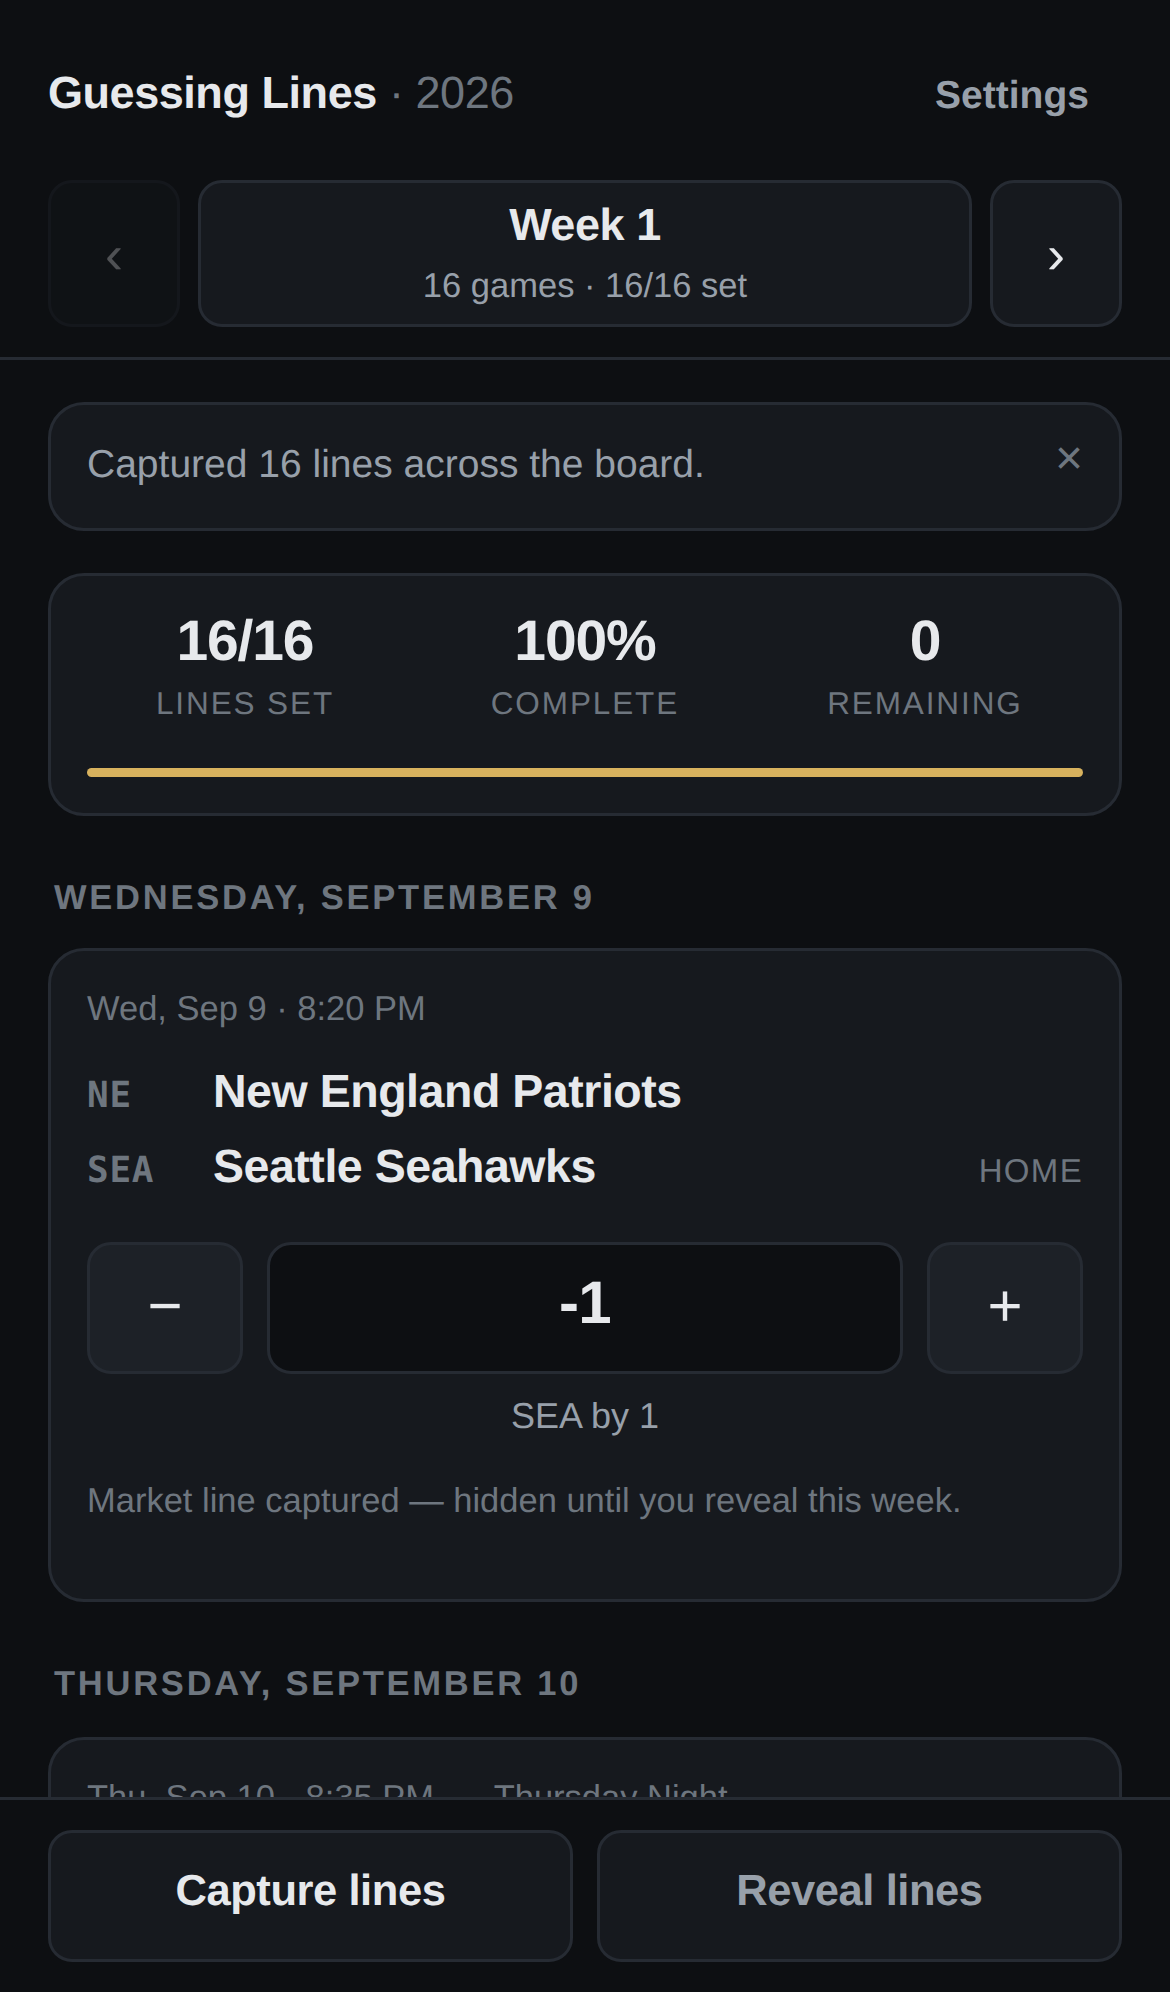
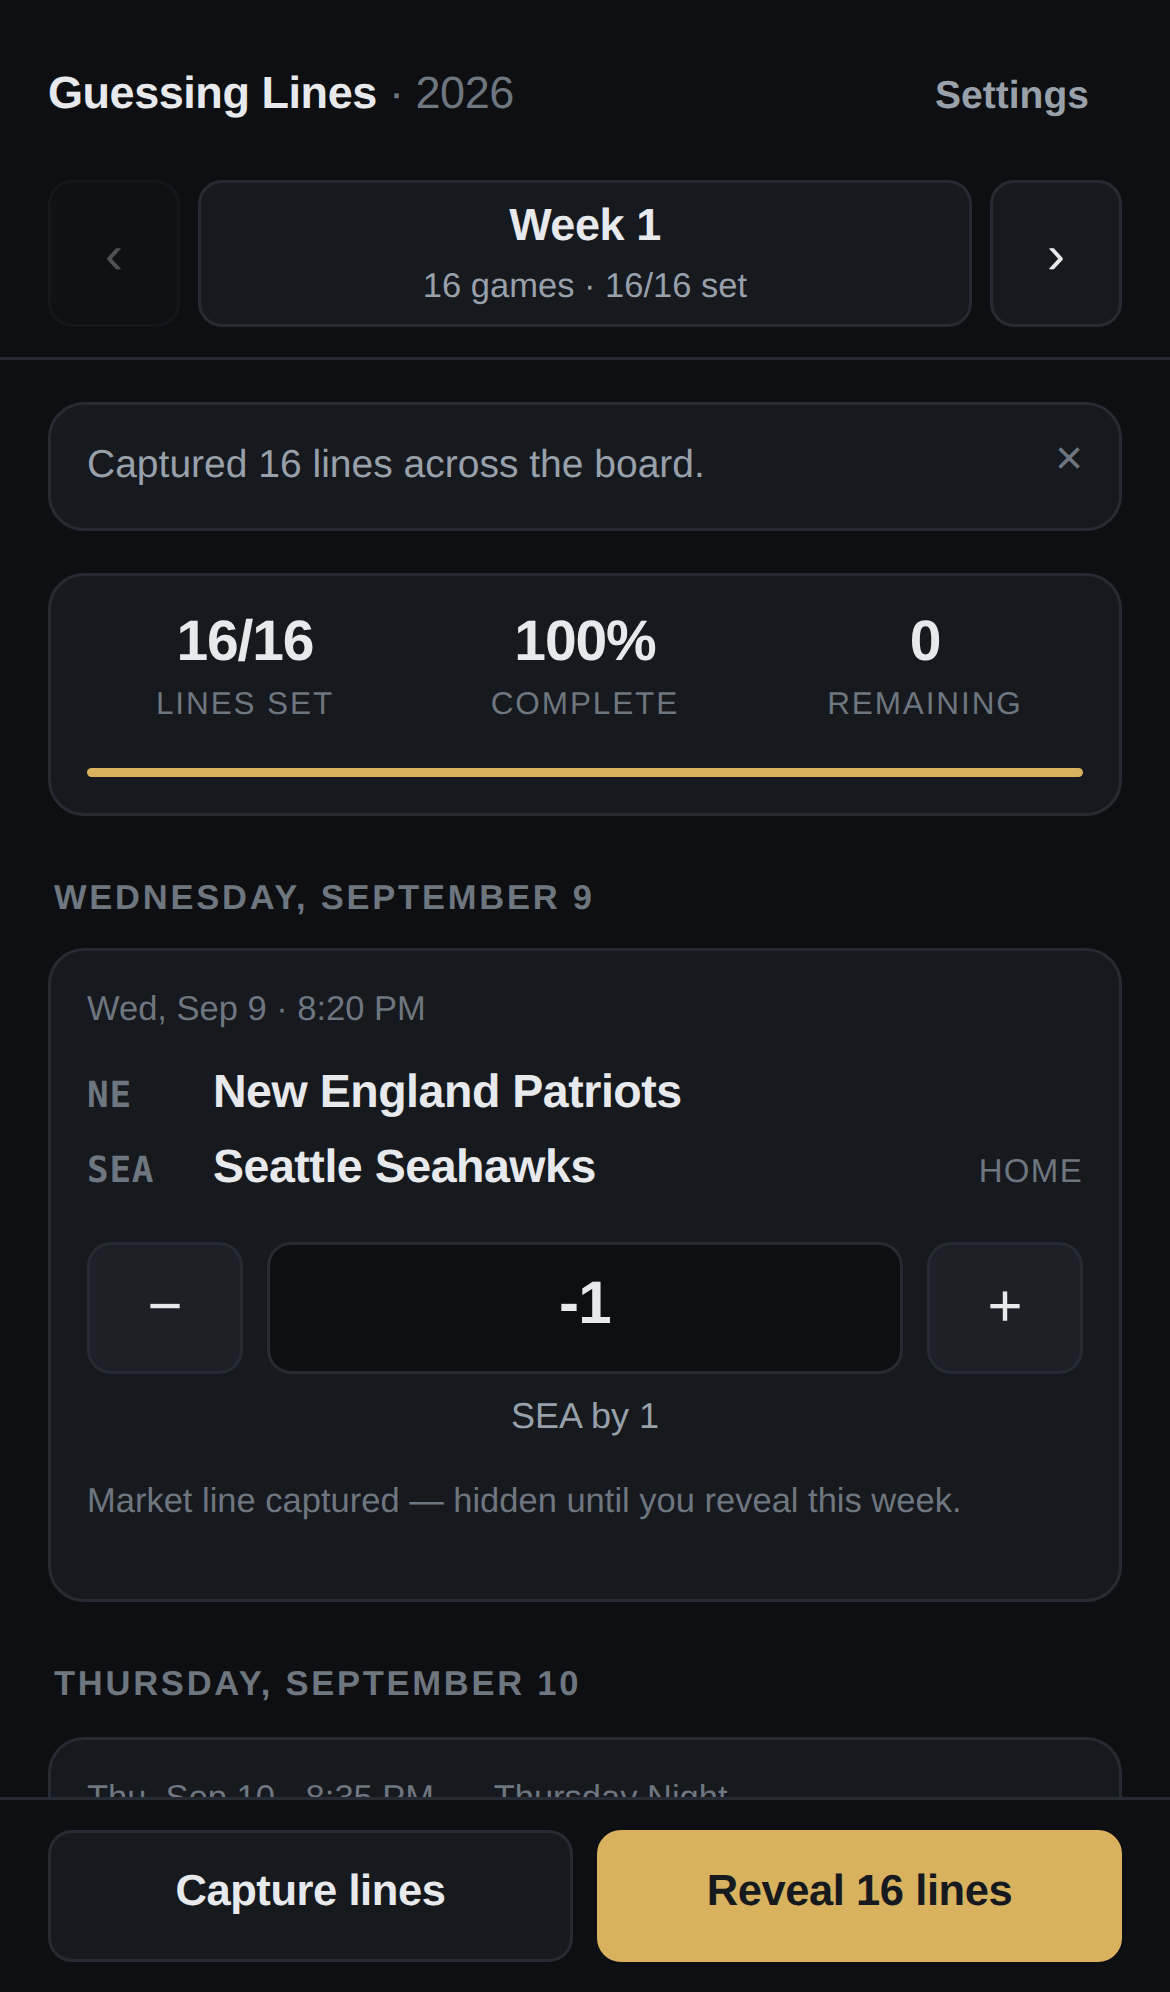
Make Reveal work whenever you ask, on the current line
Reveal did nothing when tapped. The button was disabled unless a game had
finished more than three hours ago, and week 1 has not kicked off, so
there was never anything for it to do - and a disabled button gives no
feedback at all.

The kickoff gating is gone. Reveal now pulls the current consensus from
The Odds API for any game not yet revealed, at any time. The Odds API
still drops a game from its board once it finishes, so a captured snapshot
remains the fallback for games already played, but it is the fallback
rather than the main path.

Guesses no longer lock at kickoff either; a game's input locks when you
reveal it, which is the only point at which editing it would be
meaningless.

The historical-odds path is removed entirely - a paid-plan endpoint used
to reconstruct closing lines, which is not what this is for. That takes
its settings toggle and its client function with it.

Two end-to-end checks now guard the specific failure: reveal is enabled
before any game kicks off, and what it shows comes from the live board.

Claude-Session: https://claude.ai/code/session_0193FSBnhikhSYbJYTS49Tie

Changed region(s): [[0.4923, 0.9026, 0.9846, 0.996]]

diff --git a/src/App.jsx b/src/App.jsx
@@ -8,9 +8,7 @@ import { useOnline } from './hooks/useOnline.js'
 import { usePersistentState } from './hooks/usePersistentState.js'
 import { KEYS, remove } from './lib/storage.js'
 import { consensusFromBookmakers, flipConsensus, gradeGuess, summarize } from './lib/lines.js'
-import {
-  fetchHistoricalSpreads, fetchUpcomingSpreads, OddsApiError,
-} from './lib/oddsApi.js'
+import { fetchUpcomingSpreads, OddsApiError } from './lib/oddsApi.js'
 import {
   bundledSchedule, currentWeek, dayKey, formatDayHeading, indexEventsByGame, kickedOff, likelyFinal,
   normalizeSchedule,
@@ -20,7 +18,6 @@ const DEFAULT_SETTINGS = {
   apiKey: '',
   regions: 'us',
   autoCapture: true,
-  useHistorical: false,
 }
 
 const AUTO_CAPTURE_INTERVAL = 60 * 60 * 1000 // at most one automatic capture an hour
@@ -106,9 +103,9 @@ export default function App() {
 
   const entered = games.filter((g) => Number.isFinite(guesses[g.id])).length
   const revealedGames = games.filter((g) => reveals[g.id])
-  const finalGames = games.filter((g) => phaseOf(g) === 'final')
   const upcomingGames = games.filter((g) => phaseOf(g) === 'upcoming')
-  const pendingReveal = finalGames.filter((g) => !reveals[g.id])
+  // Reveal is not gated on kickoff: any game you have not revealed is fair game.
+  const pendingReveal = games.filter((g) => !reveals[g.id])
 
   const summary = useMemo(
     () => summarize(revealedGames.map((g) => gradeGuess(guesses[g.id], reveals[g.id].line))),
@@ -230,9 +227,9 @@ export default function App() {
   }, [settings.autoCapture, settings.apiKey, upcomingGames.length, ui.lastCaptureAt, captureLines])
 
   /**
-   * Reveal: captured snapshots first (free and genuinely pre-game), then the
-   * historical endpoint when the plan allows it, then the live board as a
-   * last resort for anything still listed.
+   * Reveal pulls the current consensus straight from The Odds API, whenever you
+   * ask for it. A game the board no longer lists - because it has finished -
+   * falls back to the snapshot captured before kickoff, if there is one.
    */
   const revealWeek = useCallback(async () => {
     if (!pendingReveal.length) return
@@ -242,49 +239,13 @@ export default function App() {
     setBusy('reveal')
     setStatus(null)
 
+    const pending = pendingReveal
     const resolved = {}
     const notes = []
-    for (const game of pendingReveal) {
-      const snap = snapshots[game.id]
-      if (snap) resolved[game.id] = { ...snap, source: 'captured', revealedAt: new Date().toISOString() }
-    }
-    let missing = pendingReveal.filter((g) => !resolved[g.id])
     const key = settings.apiKey.trim()
 
     try {
-      if (missing.length && key && settings.useHistorical) {
-        // One snapshot per distinct kickoff time covers every game in that slot.
-        const slots = [...new Set(missing.map((g) => g.kickoffMs))].sort((a, b) => a - b)
-        for (const slotMs of slots) {
-          if (controller.signal.aborted) return
-          try {
-            const at = new Date(slotMs - 60000).toISOString()
-            const { events, quota: q } = await fetchHistoricalSpreads({
-              apiKey: key, regions: settings.regions, date: at, signal: controller.signal,
-            })
-            noteQuota(q)
-            const matched = indexEventsByGame(events, schedule)
-            for (const game of missing) {
-              if (game.kickoffMs !== slotMs) continue
-              const match = matched.get(game.id)
-              if (!match) continue
-              const record = toRecord(match, 'historical', at)
-              if (record) resolved[game.id] = { ...record, revealedAt: new Date().toISOString() }
-            }
-          } catch (err) {
-            if (err?.code === 'aborted') return
-            if (err?.code === 'plan' || err?.code === 'auth') {
-              notes.push('Historical odds need a paid Odds API plan; used captured snapshots instead.')
-              break
-            }
-            notes.push(describeError(err))
-            break
-          }
-        }
-        missing = pendingReveal.filter((g) => !resolved[g.id])
-      }
-
-      if (missing.length && key) {
+      if (key && online) {
         try {
           const { events, quota: q } = await fetchUpcomingSpreads({
             apiKey: key, regions: settings.regions, signal: controller.signal,
@@ -292,7 +253,7 @@ export default function App() {
           noteQuota(q)
           const matched = indexEventsByGame(events, schedule)
           const at = new Date().toISOString()
-          for (const game of missing) {
+          for (const game of pending) {
             const match = matched.get(game.id)
             if (!match) continue
             const record = toRecord(match, 'live', at)
@@ -304,25 +265,41 @@ export default function App() {
         }
       }
 
+      // Finished games drop off the live board, so use what we captured earlier.
+      const at = new Date().toISOString()
+      for (const game of pending) {
+        if (resolved[game.id]) continue
+        const snap = snapshots[game.id]
+        if (snap) resolved[game.id] = { ...snap, source: 'captured', revealedAt: at }
+      }
+
       const count = Object.keys(resolved).length
       if (count) setReveals((prev) => ({ ...prev, ...resolved }))
 
-      const stillMissing = pendingReveal.length - count
-      if (count && !stillMissing) {
+      if (count === pending.length) {
         setStatus({ tone: 'ok', text: `Revealed ${count} line${count === 1 ? '' : 's'}.` })
       } else if (count) {
-        notes.unshift(`Revealed ${count} of ${pendingReveal.length}.`)
-        setStatus({ tone: 'warn', text: `${notes.join(' ')} The rest have no market line on record — The Odds API drops games once they finish, so capture lines before kickoff (or enable historical odds) to have one to compare against.` })
+        setStatus({
+          tone: 'warn',
+          text: `${notes.length ? `${notes.join(' ')} ` : ''}Revealed ${count} of ${pending.length}. `
+            + 'The rest have no spread posted yet — books usually put NFL sides up a week or so out.',
+        })
       } else if (!key) {
-        setStatus({ tone: 'warn', text: 'No captured lines for these games, and no API key set. Add a key in Settings, then capture lines before kickoff each week.' })
+        setStatus({ tone: 'warn', text: 'Add your Odds API key in Settings first, then reveal.' })
+      } else if (!online) {
+        setStatus({ tone: 'warn', text: 'You are offline, and none of these games has a captured line to fall back on.' })
       } else {
-        notes.push('No market line on record for these games. The Odds API drops a game from the live board once it finishes, so capture lines before kickoff (or turn on historical odds) to have one to compare against.')
-        setStatus({ tone: 'warn', text: notes.join(' ') })
+        setStatus({
+          tone: 'warn',
+          text: notes.length
+            ? notes.join(' ')
+            : 'The Odds API has no spread for these games right now. Books usually post NFL sides about a week out, so try again closer to kickoff.',
+        })
       }
     } finally {
       setBusy(null)
     }
-  }, [pendingReveal, snapshots, settings, schedule, setReveals, noteQuota])
+  }, [pendingReveal, snapshots, settings, schedule, online, setReveals, noteQuota])
 
   const wipe = () => {
     for (const key of [KEYS.guesses, KEYS.snapshots, KEYS.reveals]) remove(key)
@@ -489,9 +466,7 @@ export default function App() {
               ? 'Revealing'
               : pendingReveal.length
                 ? `Reveal ${pendingReveal.length} line${pendingReveal.length === 1 ? '' : 's'}`
-                : finalGames.length
-                  ? 'All revealed'
-                  : 'Reveal lines'}
+                : 'All revealed'}
           </button>
         </div>
 

diff --git a/src/lib/oddsApi.js b/src/lib/oddsApi.js
@@ -1,5 +1,5 @@
-// Client for The Odds API (https://the-odds-api.com/). Free keys work for
-// everything here except historical snapshots, which are a paid-plan endpoint.
+// Client for The Odds API (https://the-odds-api.com/). A free key covers
+// everything this app asks for.
 
 const BASE = 'https://api.the-odds-api.com/v4'
 export const SPORT = 'americanfootball_nfl'
@@ -74,8 +74,8 @@ async function request(path, params, { signal, timeoutMs = 12000 } = {}) {
       const retryAfter = Number(res.headers.get('retry-after')) || null
       throw new OddsApiError('rate_limit', detail || 'Rate limited by The Odds API. Wait a moment and retry.', { status: 429, quota, retryAfter })
     }
-    if (res.status === 402 || /historical/i.test(detail)) {
-      throw new OddsApiError('plan', detail || 'That endpoint needs a paid Odds API plan.', { status: res.status, quota })
+    if (res.status === 402) {
+      throw new OddsApiError('plan', detail || 'That request needs a paid Odds API plan.', { status: res.status, quota })
     }
     if (res.status >= 500) {
       throw new OddsApiError('server', 'The Odds API is having trouble right now. Try again shortly.', { status: res.status, quota })
@@ -110,24 +110,6 @@ export async function fetchScores({ apiKey, daysFrom = 3, signal }) {
     { signal },
   )
   return { events: Array.isArray(data) ? data : [], quota }
-}
-
-/**
- * Odds as they stood at a past moment. Paid plans only - the app treats a `plan`
- * error here as "fall back to the locally captured snapshot", not as a failure.
- */
-export async function fetchHistoricalSpreads({ apiKey, date, regions = 'us', oddsFormat = 'decimal', bookmakers, signal }) {
-  if (!apiKey) throw new OddsApiError('auth', 'Add your Odds API key in Settings first.')
-  const { data, quota } = await request(
-    `/historical/sports/${SPORT}/odds`,
-    { apiKey, regions: bookmakers ? undefined : regions, bookmakers, markets: 'spreads', oddsFormat, dateFormat: 'iso', date },
-    { signal },
-  )
-  return {
-    events: Array.isArray(data?.data) ? data.data : [],
-    timestamp: data?.timestamp || date,
-    quota,
-  }
 }
 
 /** Cheap key check: /sports costs no credits. */

diff --git a/src/components/GameCard.jsx b/src/components/GameCard.jsx
@@ -10,15 +10,14 @@ const NAMED_WINDOWS = new Set(['Thursday Night', 'Sunday Night', 'Monday Night',
 
 const SOURCE_LABEL = {
   captured: 'from your captured pre-game snapshot',
-  historical: 'from The Odds API historical snapshot',
-  live: 'from The Odds API live board',
+  live: 'live from The Odds API',
 }
 
 function GameCard({ game, guess, reveal, captured, phase, onGuess }) {
   const home = TEAM_BY_ID[game.home]
   const away = TEAM_BY_ID[game.away]
   const grade = reveal ? gradeGuess(guess, reveal.line) : null
-  const editable = phase === 'upcoming'
+  const editable = !reveal
 
   return (
     <article className={`card${reveal ? ' card--revealed' : ''}`}>
@@ -55,17 +54,6 @@ function GameCard({ game, guess, reveal, captured, phase, onGuess }) {
           home={home.id}
           away={away.id}
         />
-      ) : null}
-
-      {!editable && !reveal ? (
-        <div className="locked">
-          <span>
-            {guess === null || guess === undefined
-              ? 'No line entered'
-              : `Your line · ${describeSpread(guess, { home: home.id, away: away.id })}`}
-          </span>
-          <b className="num">{formatSpread(guess ?? null)}</b>
-        </div>
       ) : null}
 
       {reveal ? (

diff --git a/src/components/SettingsSheet.jsx b/src/components/SettingsSheet.jsx
@@ -144,22 +144,6 @@ export default function SettingsSheet({
         </div>
       </div>
 
-      <div className="switch">
-        <input
-          id="historical"
-          type="checkbox"
-          checked={settings.useHistorical}
-          onChange={(e) => set({ useHistorical: e.target.checked })}
-        />
-        <div>
-          <label htmlFor="historical"><b>Use historical odds on reveal</b></label>
-          <small>
-            Pulls the closing line straight from The Odds API at kickoff time. Needs a paid plan; with a
-            free key the app quietly falls back to your captured snapshots.
-          </small>
-        </div>
-      </div>
-
       <hr className="divider" />
 
       <div className="field">

diff --git a/README.md b/README.md
@@ -57,6 +57,9 @@ hanging an off-market number should not drag the consensus.
 | ≤ 6 | wide |
 | > 6 | miss |
 
+A game's input locks once you reveal it — there is no point editing a guess you have
+already seen the answer to — but nothing else is time-gated.
+
 Taking the wrong favourite is called out separately — being off by two points is a
 different mistake from having the wrong team laying the points. The week header rolls
 it all up: average error, exact hits, within a point, worst miss.
@@ -74,34 +77,30 @@ Get a key at [the-odds-api.com](https://the-odds-api.com/) (the free tier is 500
 requests a month, which is far more than this app needs) and paste it into **Settings**.
 It is stored in your browser's `localStorage` and sent only to `api.the-odds-api.com`.
 
-### The one thing worth understanding
+### How Reveal works
 
-**The Odds API drops a game from the odds board as soon as it finishes.** The
-`/v4/sports/americanfootball_nfl/odds` endpoint only returns games that have not
-started. So "fetch the line after the game is played" is not something a free key can
-do on its own — by then the line is gone.
+Reveal pulls the **current** consensus straight from The Odds API, whenever you tap it.
+There is no waiting for kickoff and no historical lookup — you can set a line and
+reveal it a minute later if you want to see how close you were to where the market
+opened.
 
-The app handles this by **capturing** lines before kickoff:
+One wrinkle worth knowing: **The Odds API drops a game from the board the moment it
+finishes.** So for a game that has already been played, there is nothing live left to
+fetch. The app covers that by quietly **capturing** the consensus for upcoming games
+and keeping it locally — hidden from you, the card only says a line was captured, never
+what it was. Reveal then works like this:
 
-1. While a week still has games to play, the app snapshots the consensus for each of
-   them and stores it locally. That snapshot is hidden from you — the card just says
-   a line was captured, never what it was.
-2. When you hit **Reveal** after the games are over, it shows those captured lines.
+1. **The live board**, for any game still listed. This is the number you get almost
+   every time.
+2. **Your captured snapshot**, for games the board has already dropped.
 
-Capture runs automatically at most once an hour whenever you open a week with games
-still to play (toggleable in Settings), and there is a **Capture lines** button for
-doing it by hand. Open the week once on game day and you will have a closing-ish line
-to grade against.
+If neither has a line — most often because books have not posted that week yet — the
+app says so instead of inventing one.
 
-Reveal falls back in this order:
-
-1. **Your captured snapshot** — free, and genuinely a pre-game number.
-2. **The historical odds endpoint** — the true closing line at kickoff. Requires a
-   paid Odds API plan; enable it in Settings. If your key cannot use it, the app
-   silently falls back rather than failing.
-3. **The live board** — for anything somehow still listed.
-
-If none of those has a line, the app says so plainly instead of inventing one.
+Capturing runs on its own at most once an hour when you open a week with games still to
+play, and there is a **Capture lines** button to do it by hand. You do not have to
+think about it; it just means a line you revealed weeks later still has something to
+compare against.
 
 ### Request cost
 
@@ -109,11 +108,11 @@ If none of those has a line, the app says so plainly instead of inventing one.
 |---|---|
 | Testing your key | 0 |
 | Capture lines | 1 per region selected |
-| Reveal from captured snapshots | 0 |
-| Reveal via historical odds | 1 per region, per distinct kickoff time |
+| Reveal | 1 per region selected |
+| Reveal that falls back to captured snapshots | 0 |
 
-Rate limits, an expired key, a dead connection and a plan restriction each produce a
-specific message rather than a generic failure.
+Rate limits, an expired key and a dead connection each produce a specific message
+rather than a generic failure.
 
 ---
 
